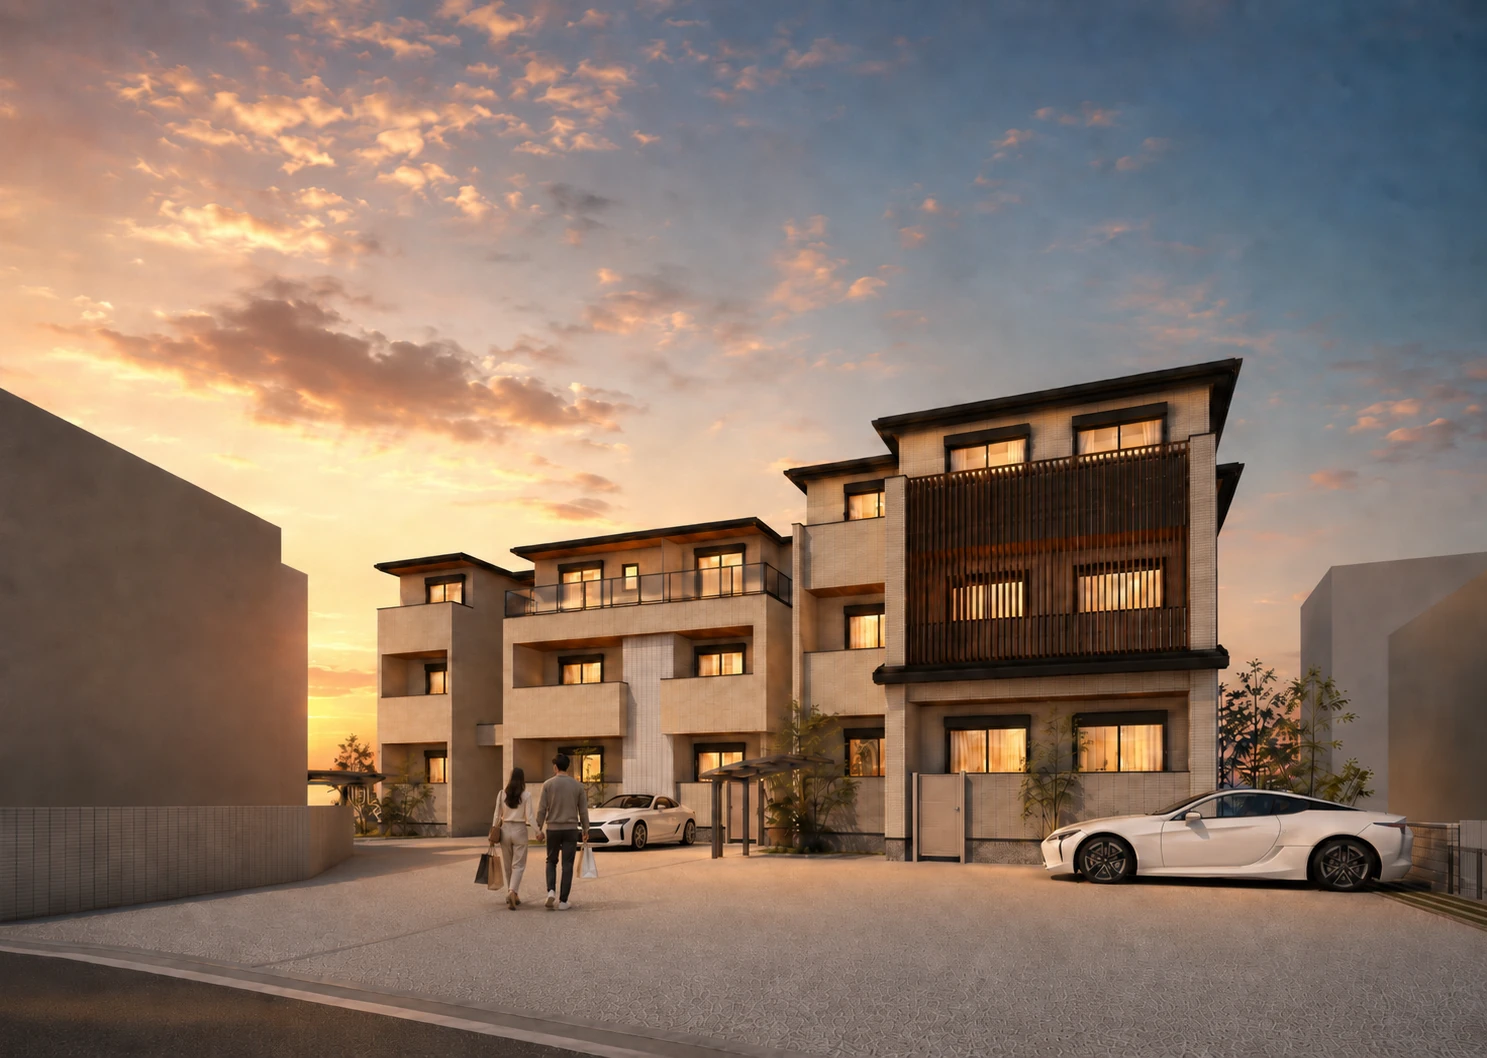
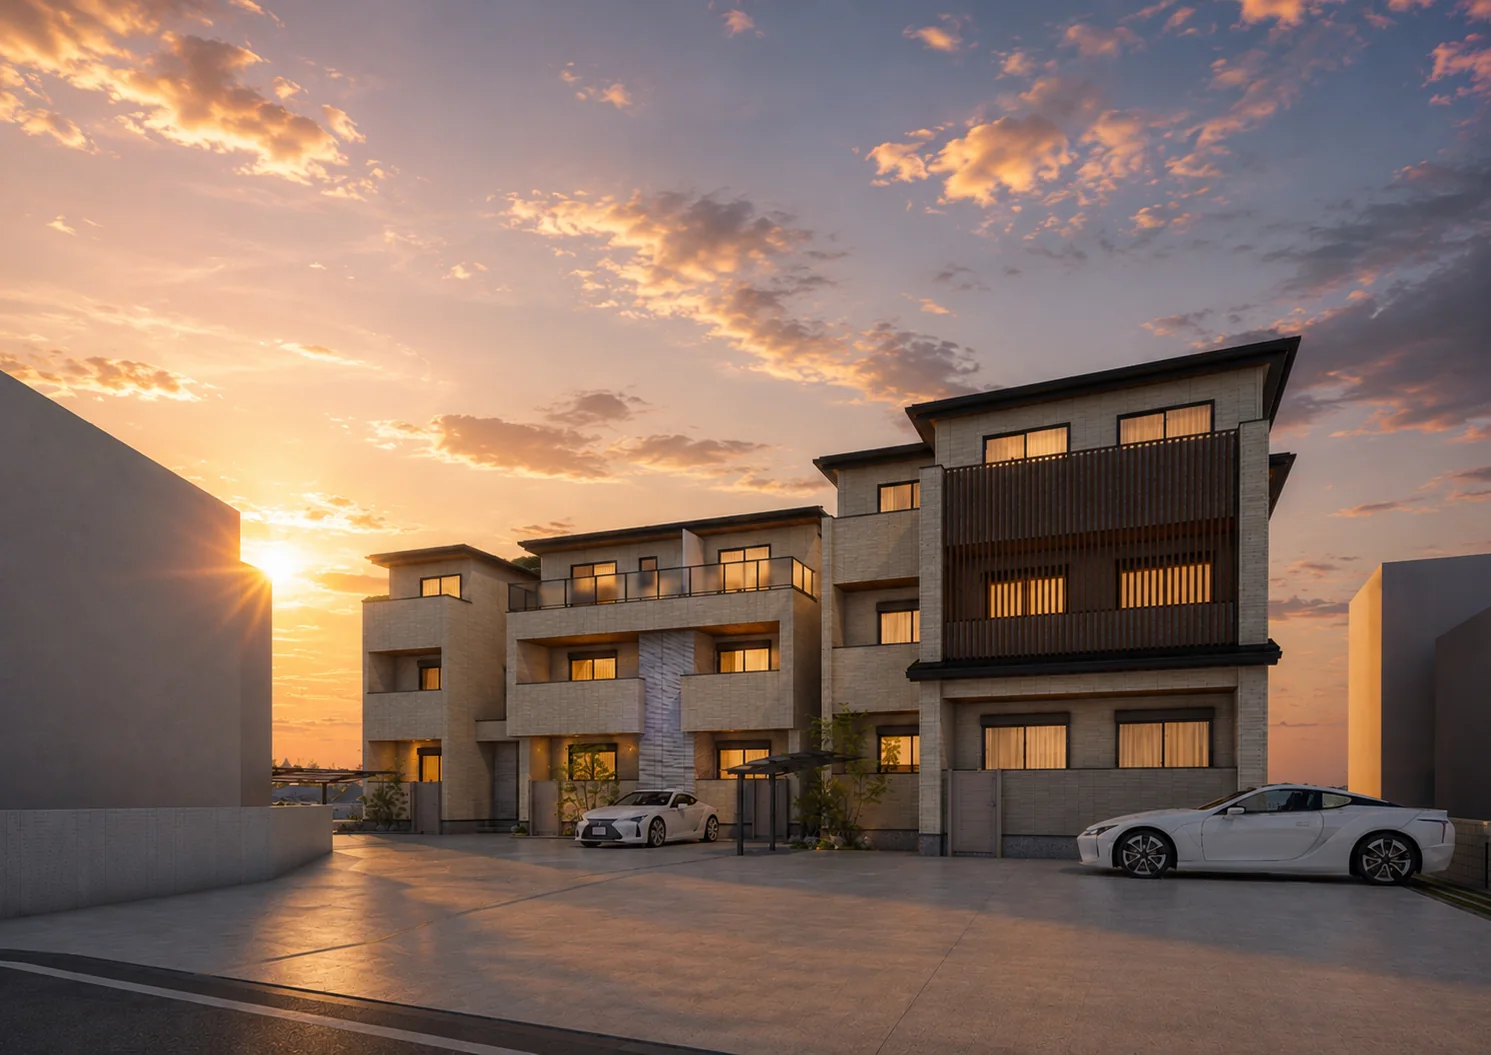
Add files via upload

diff --git a/index.html b/index.html
@@ -36,7 +36,7 @@
 
   <section class="hero" id="top" aria-labelledby="hero-title">
     <div class="hero-media">
-      <img src="assets/exterior-evening-life.webp" alt="宇治市小倉町天王に計画する二棟賃貸住宅の夕景">
+      <img src="assets/exterior-evening-life.webp" alt="宇治市小倉町天王に計画する二棟賃貸住宅の新しい夕景全体パース">
       <div class="hero-shade"></div>
     </div>
     <div class="hero-content reveal">
@@ -87,7 +87,7 @@
 
     <section class="architecture-intro" id="architecture">
       <div class="architecture-intro-media">
-        <img src="assets/exterior-day-wide.webp" alt="二棟賃貸住宅の昼景">
+        <img src="assets/exterior-day-wide.webp" alt="新計画による二棟賃貸住宅の昼景全体パース">
       </div>
       <div class="architecture-intro-card reveal">
         <p class="kicker">02 · ARCHITECTURE</p>
@@ -214,7 +214,8 @@
           <dl class="phase-specs"><div><dt>RESIDENCES</dt><dd>1LDK · 9戸</dd></div><div><dt>AREA</dt><dd>42.34㎡〜57.50㎡</dd></div><div><dt>PLAN</dt><dd>3 FLOORS</dd></div></dl>
         </div>
         <div class="phase1-images reveal delay">
-          <button class="image-button phase-exterior" data-lightbox="assets/hero-day.webp"><img src="assets/hero-day.webp" alt="Phase 01・1LDK棟の昼景外観"><span>EXTERIOR / DAY</span></button>
+          <button class="image-button phase-exterior" data-lightbox="assets/hero-day.webp"><img src="assets/hero-day.webp" alt="Phase 01・1LDK棟の新しい昼景正面パース"><span>EXTERIOR / DAY</span></button>
+          <button class="image-button phase-exterior phase-exterior-evening" data-lightbox="assets/phase1-night.webp"><img src="assets/phase1-night.webp" alt="Phase 01・1LDK棟の新しい夕景正面パース"><span>EXTERIOR / EVENING</span></button>
           <button class="image-button" data-lightbox="assets/interior-warm.webp"><img src="assets/interior-warm.webp" alt="Phase 01・1LDKの温かみのある内観"><span>WARM NATURAL</span></button>
           <button class="image-button" data-lightbox="assets/interior-modern.webp"><img src="assets/interior-modern.webp" alt="Phase 01・1LDKの落ち着いたモダンな内観"><span>CALM MODERN</span></button>
         </div>
@@ -230,8 +231,12 @@
         </header>
         <div class="phase2-interior-grid reveal-stagger">
           <button class="image-button phase2-exterior" data-lightbox="assets/hero-close.webp">
-            <img src="assets/hero-close.webp" alt="Phase 02・2LDK棟の格子を印象的に見せる昼景外観">
-            <span><b>EXTERIOR</b>街並みに落ち着きをつくる佇まい。</span>
+            <img src="assets/hero-close.webp" alt="Phase 02・2LDK棟の新しい昼景正面パース">
+            <span><b>EXTERIOR / DAY</b>格子が街並みに奥行きをつくる、2LDK棟のファサード。</span>
+          </button>
+          <button class="image-button phase2-exterior phase2-exterior-evening" data-lightbox="assets/hero-evening.webp">
+            <img src="assets/hero-evening.webp" alt="Phase 02・2LDK棟の新しい夕景正面パース">
+            <span><b>EXTERIOR / EVENING</b>夕景の光を受け、住まいの落ち着きが表情として立ち上がる。</span>
           </button>
           <button class="image-button phase2-main" data-lightbox="assets/phase2-living-front.webp">
             <img src="assets/phase2-living-front.webp" alt="Phase 02・2LDKの木質感あるリビングダイニング">
@@ -256,9 +261,11 @@
           <p>昼の輪郭から、夕暮れの灯りまで。二棟の距離と素材の重なりを、異なる視点で確かめます。</p>
         </header>
         <div class="exterior-grid reveal-stagger">
-          <button class="image-button exterior-main" data-lightbox="assets/exterior-day-close.webp"><img src="assets/exterior-day-close.webp" alt="二棟賃貸住宅の正面昼景"><span>DAY / FRONT</span></button>
-          <button class="image-button" data-lightbox="assets/exterior-evening.webp"><img src="assets/exterior-evening.webp" alt="二棟賃貸住宅の夕景"><span>EVENING / SILHOUETTE</span></button>
-          <button class="image-button" data-lightbox="assets/exterior-evening-life.webp"><img src="assets/exterior-evening-life.webp" alt="帰宅する二人を描いた二棟賃貸住宅の夕景"><span>EVENING / LIFE</span></button>
+          <button class="image-button exterior-main" data-lightbox="assets/exterior-day-wide.webp"><img src="assets/exterior-day-wide.webp" alt="新しい二棟計画の昼景引きパース"><span>DAY / WIDE</span></button>
+          <button class="image-button" data-lightbox="assets/exterior-day-close.webp"><img src="assets/exterior-day-close.webp" alt="新しい二棟計画の昼景近景パース"><span>DAY / FRONT</span></button>
+          <button class="image-button" data-lightbox="assets/exterior-evening-life.webp"><img src="assets/exterior-evening-life.webp" alt="新しい二棟計画の夕景引きパース"><span>GOLDEN HOUR / WIDE</span></button>
+          <button class="image-button" data-lightbox="assets/exterior-evening.webp"><img src="assets/exterior-evening.webp" alt="新しい二棟計画の夕景近景パース"><span>EVENING / FRONT</span></button>
+          <button class="image-button" data-lightbox="assets/hero-night.webp"><img src="assets/hero-night.webp" alt="新しい二棟計画の夜寄り夕景パース"><span>BLUE HOUR</span></button>
         </div>
       </div>
     </section>
@@ -288,7 +295,7 @@
     </section>
 
     <section class="closing">
-      <div class="closing-media"><img src="assets/exterior-evening.webp" alt="小倉町天王二棟賃貸住宅の夕景"></div>
+      <div class="closing-media"><img src="assets/exterior-evening-life.webp" alt="小倉町天王二棟賃貸住宅の新しい夕景全体パース"></div>
       <div class="closing-copy reveal">
         <img src="assets/symbol-ogura-tenno.svg" alt="">
         <p class="kicker">CLOSING STATEMENT</p>

diff --git a/styles.css b/styles.css
@@ -156,8 +156,8 @@ p{margin:0 0 1.4em}
 .exterior-gallery{background:#d9d5cc}
 .gallery-heading{display:grid;grid-template-columns:1.05fr .95fr;gap:9vw;align-items:end;margin-bottom:70px}
 .gallery-heading>p{color:var(--muted);max-width:460px;margin:0}
-.exterior-grid{display:grid;grid-template-columns:1.2fr .8fr;grid-template-rows:330px 330px;gap:18px}
-.exterior-grid .exterior-main{grid-row:1/3}
+.exterior-grid{display:grid;grid-template-columns:1.15fr .85fr .85fr;grid-auto-rows:300px;gap:18px}
+.exterior-grid .exterior-main{grid-column:1/2;grid-row:1/3}
 .exterior-grid img{width:100%;height:100%;object-fit:cover}
 .exterior-grid span,.phase1-images span{position:absolute;left:20px;bottom:18px;background:rgba(18,20,17,.68);color:#fff;padding:9px 12px;font:600 9px/1 Arial,sans-serif;letter-spacing:.16em}
 
@@ -193,7 +193,7 @@ p{margin:0 0 1.4em}
 .phase1-copy p{color:var(--muted)}
 .phase1-images{display:grid;grid-template-columns:1.1fr .9fr;gap:18px;align-items:end}
 .phase1-images .phase-exterior{grid-column:1/-1;aspect-ratio:16/9}
-.phase1-images .phase-exterior img{height:100%;object-fit:cover;object-position:28% center}
+.phase1-images .phase-exterior img{height:100%;object-fit:cover;object-position:center}
 .phase1-images .image-button:not(.phase-exterior) img{height:auto;aspect-ratio:4/3;object-fit:cover}
 .phase-specs{margin:34px 0 0;border-top:1px solid var(--line)}
 .phase-specs div{display:flex;justify-content:space-between;gap:24px;padding:13px 0;border-bottom:1px solid var(--line)}
@@ -273,7 +273,8 @@ footer .wrap{display:flex;justify-content:space-between;gap:20px}
   .gallery-heading,.living-heading{grid-template-columns:1fr;gap:28px}
   .living-heading .kicker{grid-column:auto;margin-bottom:0}
   .exterior-grid,.phase2-interior-grid{grid-template-columns:1fr;grid-template-rows:auto}
-  .exterior-grid .exterior-main,.phase2-interior-grid .phase2-main{grid-row:auto}
+  .exterior-grid .exterior-main{grid-column:auto;grid-row:auto}
+  .phase2-interior-grid .phase2-main{grid-row:auto}
   .phase2-interior-grid .phase2-exterior,.phase2-interior-grid .phase2-main{grid-column:auto}
   .exterior-grid img,.phase2-interior-grid img{height:auto;aspect-ratio:4/3}
   .plan-shell{grid-template-columns:1fr;grid-template-rows:auto auto auto;min-height:0}

diff --git a/DELIVERY_NOTES.md b/DELIVERY_NOTES.md
@@ -1,50 +1,23 @@
-# 小倉町天王 LP — APS Flagship Final Polish
+# Delivery Notes｜OGURA TENNO v2 Image Replacement
 
-## 開くファイル
+## Update Summary
+- Replaced all old overall exterior perspectives with the new overall perspective set.
+- Replaced Phase01 3F plan with the revised Phase01 3F plan.
+- Replaced Phase02 3F plan with the revised Phase02 3F plan.
+- Replaced Phase01 exterior image set with the new front-view day/evening perspectives.
+- Replaced Phase02 exterior image set with the new front-view day/evening perspectives.
+- Adjusted gallery composition according to APS editorial rules: image role, phase clarity, and sequence.
 
-`index.html`をブラウザで開いてください。
+## Image Role
+- HERO: New wide evening overall perspective.
+- PROJECT / SITE PLANNING: New wide daytime overall perspective.
+- PHASE01: New front-view Phase01 daytime and evening perspectives.
+- PHASE02: New front-view Phase02 daytime and evening perspectives.
+- GALLERY: New full overall exterior set only. Old overall perspectives removed.
+- PLAN VIEWER: Revised Phase01 3F and Phase02 3F plan images.
 
-## 今回の変更箇所
-
-- DESIGN CONCEPTを思想の比較に限定し、文章量を削減
-- Phase 01／02を戸数・面積・プラン・暮らし・画像による建物紹介へ変更
-- 想定入居者とデザイン説明の重複を整理
-- 思想から建物紹介へつながるブリッジコピーを追加
-- DESIGN CONCEPT見出しの2行構成を全画面幅で固定
-- Phase 01外観を`assets/hero-day.webp`へ変更
-- Phase 02外観を`assets/hero-close.webp`へ変更
-- DESIGN CONCEPTの縦長トリミングを廃止し、横構図中心へ変更
-- Phase 01 INTERIOR→Phase 02 INTERIORの順へ入れ替え
-- LOCATIONからDRAWINGSまでのストーリー順と番号を整理
-- SITE STRATEGYをSITE PLANNINGへ変更し、配置計画の説明を全面修正
-- 根拠のない「中央の余白」「緑の帯」「敷地の軸」の説明を削除
-- SITE PLANNINGを配置・住戸・動線・景観の4項目で整理
-- 配置図キャプションを確定情報の範囲へ修正
-- DESIGN CONCEPTを追加し、Phase 01とPhase 02の対象・外観・内観の違いを比較表示
-- セクション番号、図面タブ表記、メタ情報を整合
-
-## DESIGN CONCEPT使用画像
-
-- Phase 01 外観：`assets/hero-day.webp`
-- Phase 01 内観：`assets/interior-modern.webp`
-- Phase 02 外観：`assets/hero-close.webp`
-- Phase 02 内観：`assets/phase2-living-front.webp`
-
-## 確認結果
-
-- PC：1440px幅で横スクロール、ナビゲーション欠け、比較レイアウト崩れなし
-- タブレット：768px幅でPhase比較を縦積み、図面タブを横スクロール表示
-- モバイル：390px／430px幅で横スクロールなし、Phase 01→02の順序、SITE PLANNINGの縦積みを確認
-- 図面：全タブの参照先が存在し、クリック・矢印キー操作と状態更新を確認
-- ライトボックス：開閉とEscapeキー終了を確認
-- メニュー：開閉と`aria-expanded`更新を確認
-- コンソール：エラーなし
-
-## 未確認事項
-
-- 公開環境での表示とOGP展開は、公開URL未指定のため未確認です。
-- `og:image`は未設定です。faviconは`assets/symbol-ogura-tenno.svg`を有効に参照しています。
-
-## ZIP保存場所
-
-`C:/Users/ikpgi/Documents/GitHub/futari-kurashi/ogura_tenno_APS_flagship_final_polish.zip`
+## APS Check
+- Structure retained where already strong.
+- No unnecessary section expansion.
+- Editorial image selection updated to match section roles.
+- Old imagery removed to avoid mixed-plan inconsistency.
